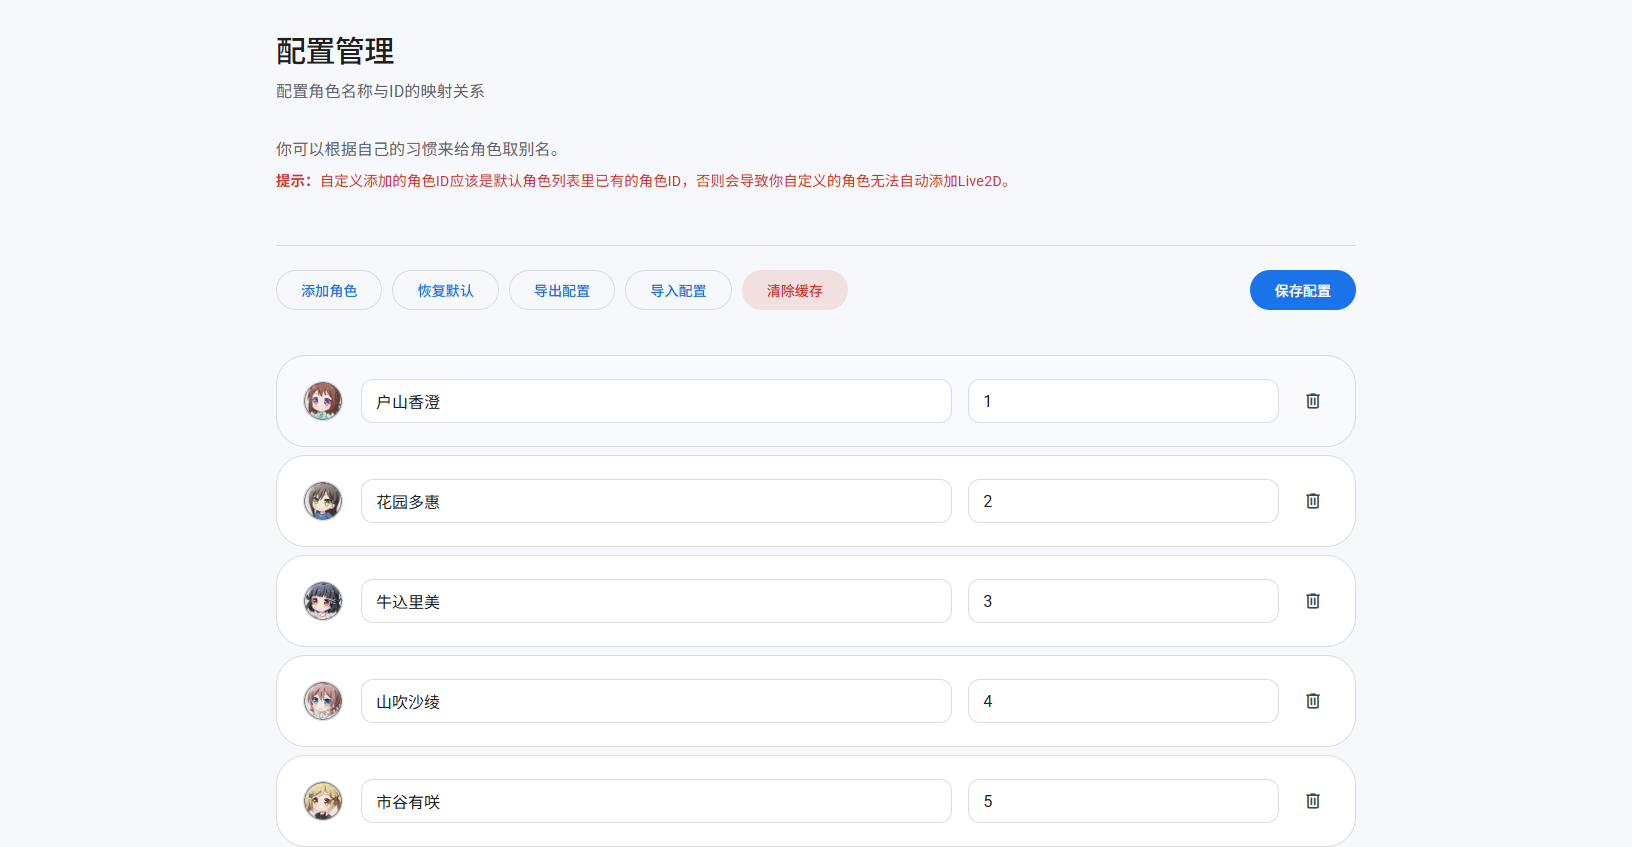
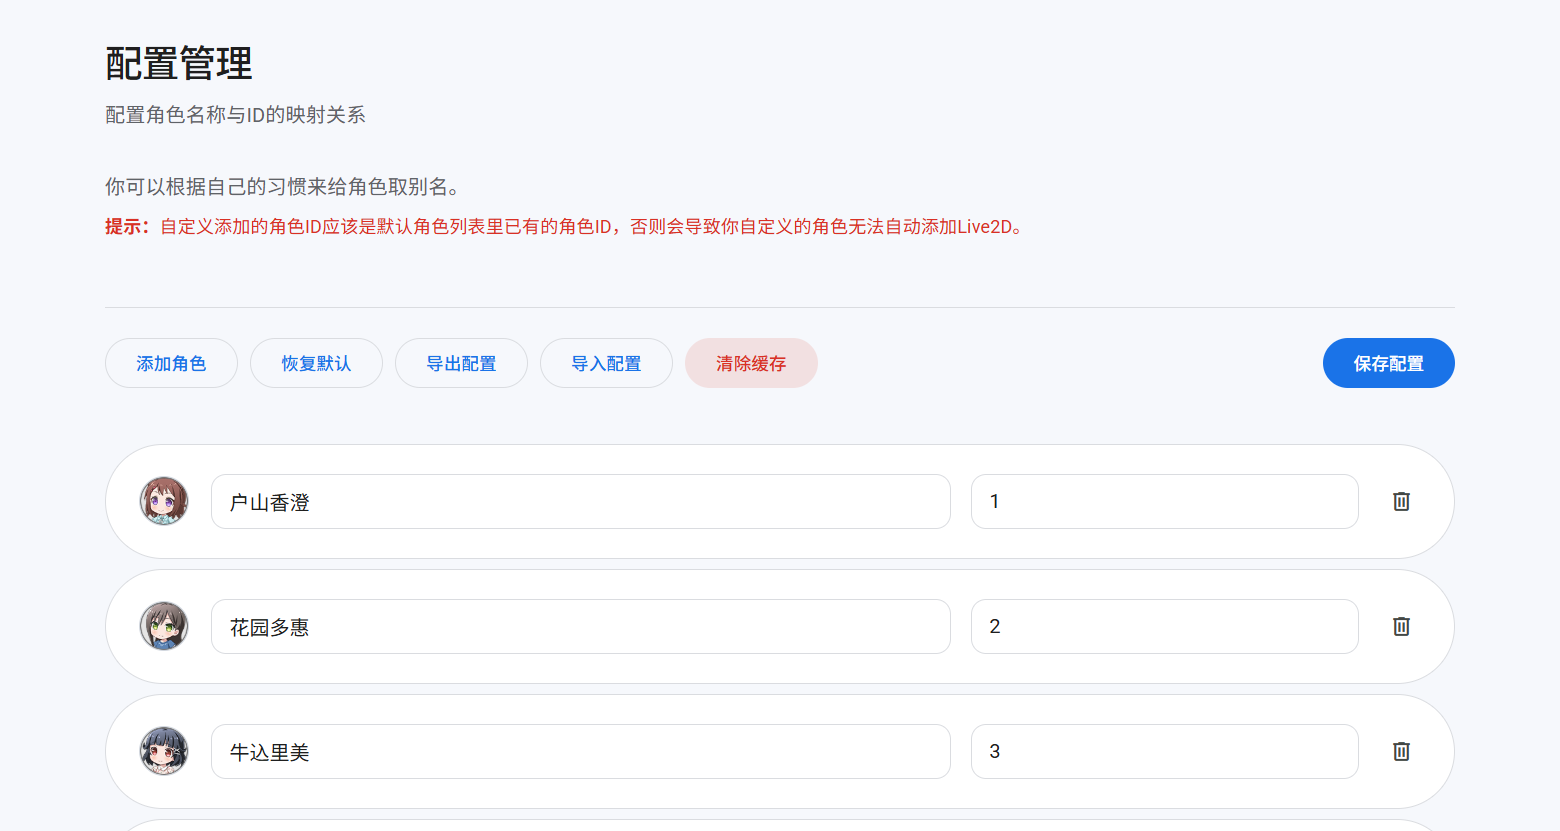
Refine config option card rounding

diff --git a/static/css/cards/cards-config.css b/static/css/cards/cards-config.css
@@ -43,6 +43,10 @@
   box-shadow: none;
 }
 
+.costume-config-item:has(.costume-details.hidden) {
+  border-radius: var(--radius-full);
+}
+
 .costume-config-item:hover {
   background: var(--surface-container);
   border-color: var(--border-primary);
@@ -182,7 +186,7 @@
   margin-bottom: 0;
   background: var(--bg-primary);
   border: 1px solid var(--border-primary);
-  border-radius: 30px;
+  border-radius: var(--radius-full);
   transition:
     background-color var(--transition-fast),
     border-color var(--transition-fast);

diff --git a/static/css/cards/cards-base.css b/static/css/cards/cards-base.css
@@ -222,7 +222,7 @@
   min-height: 92px;
   background: var(--bg-primary);
   border: 1px solid var(--border-primary);
-  border-radius: 30px;
+  border-radius: var(--radius-full);
   transition:
     background-color var(--transition-fast),
     border-color var(--transition-fast),
